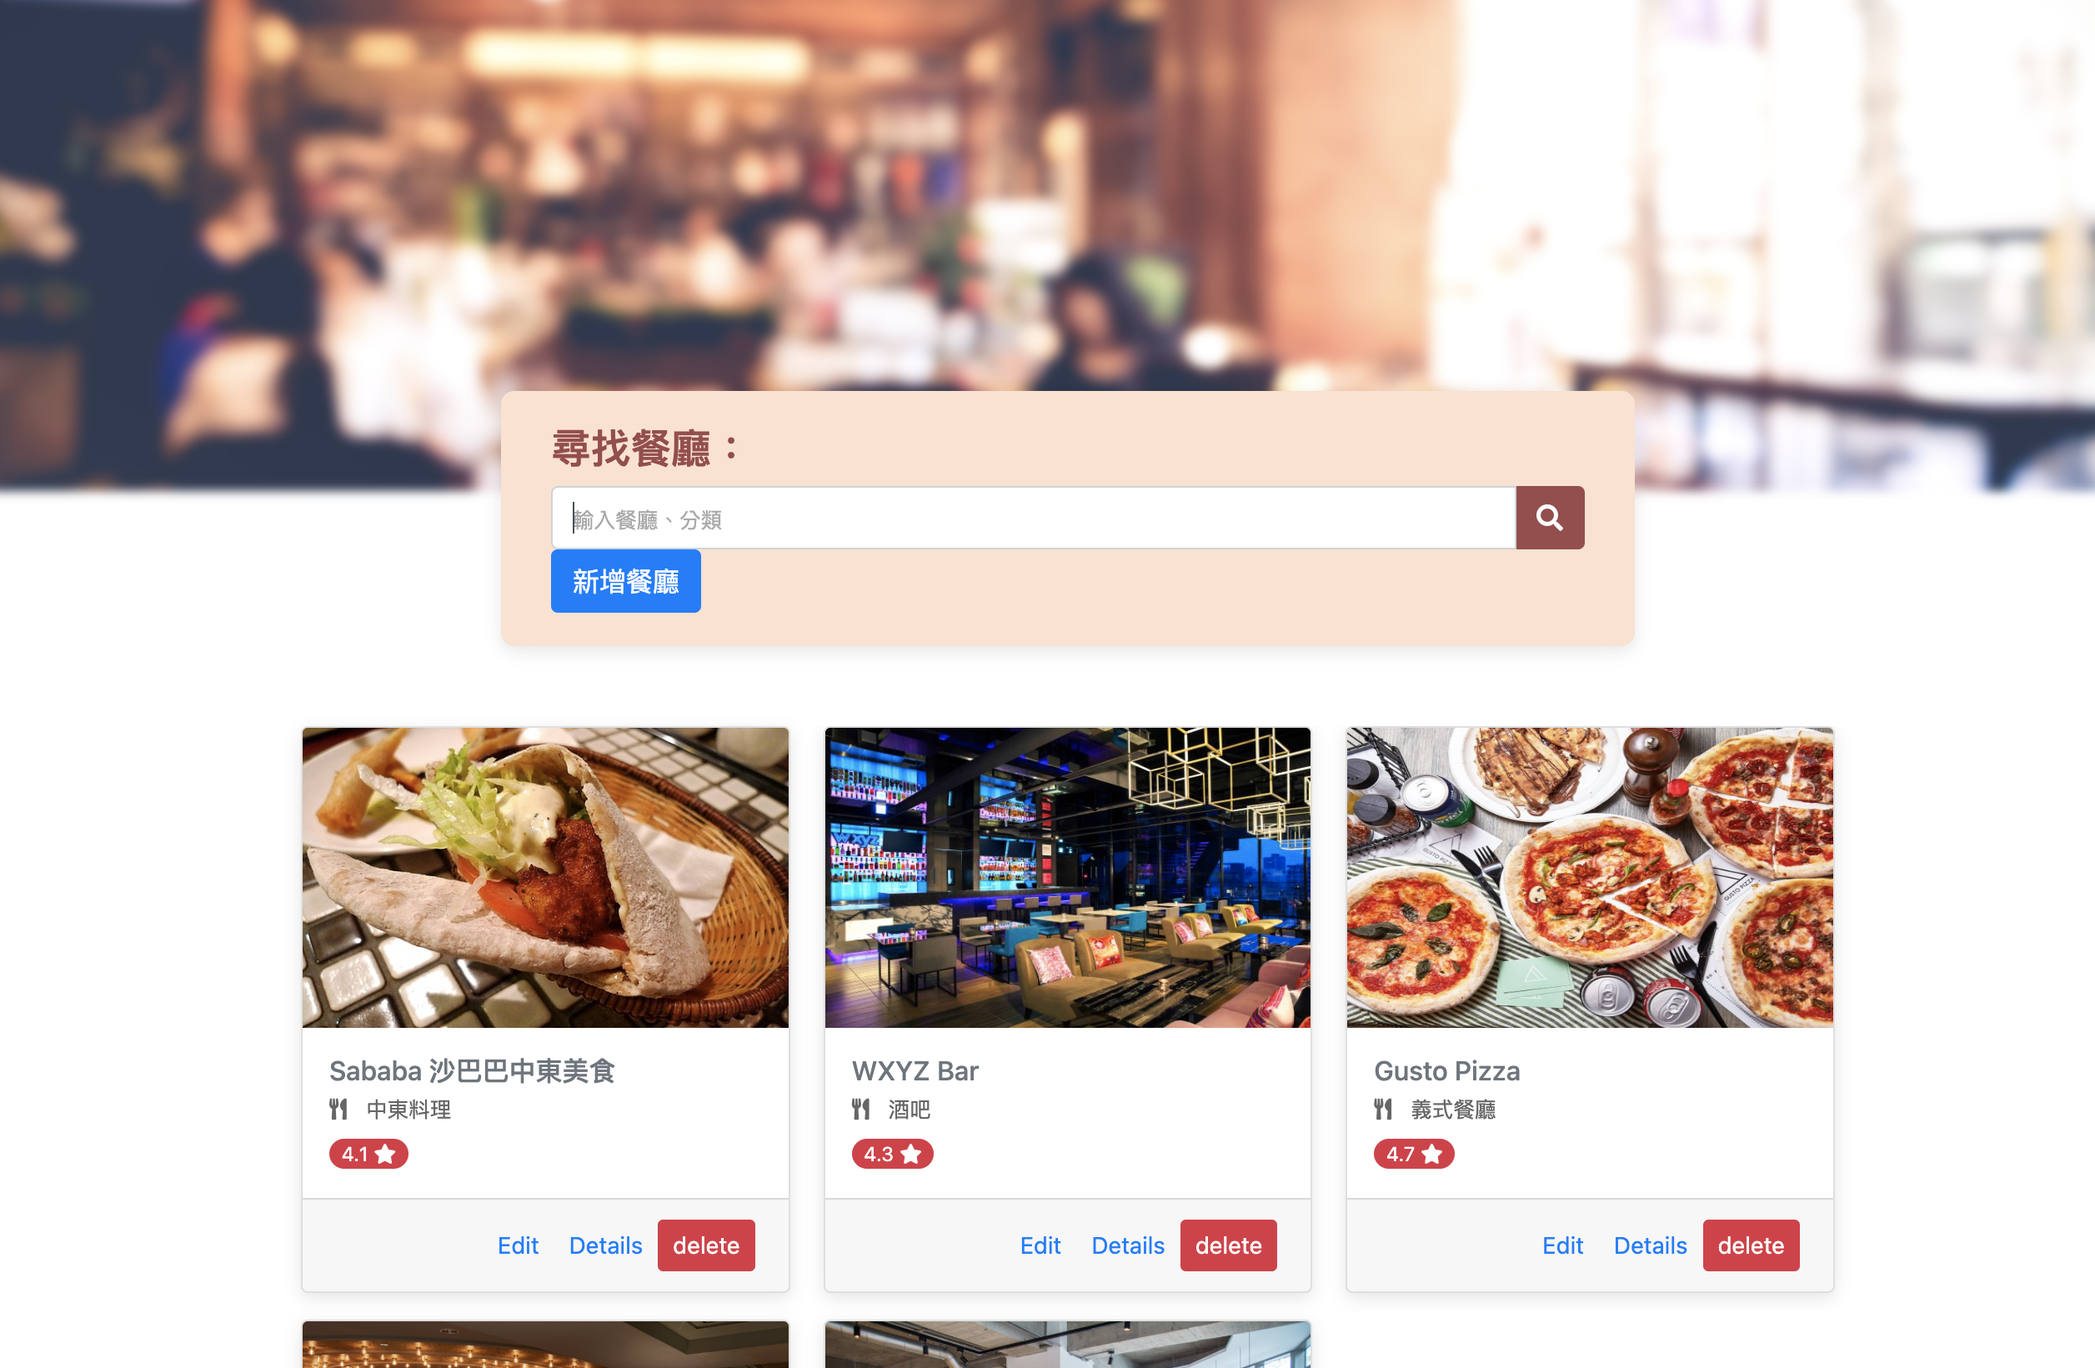
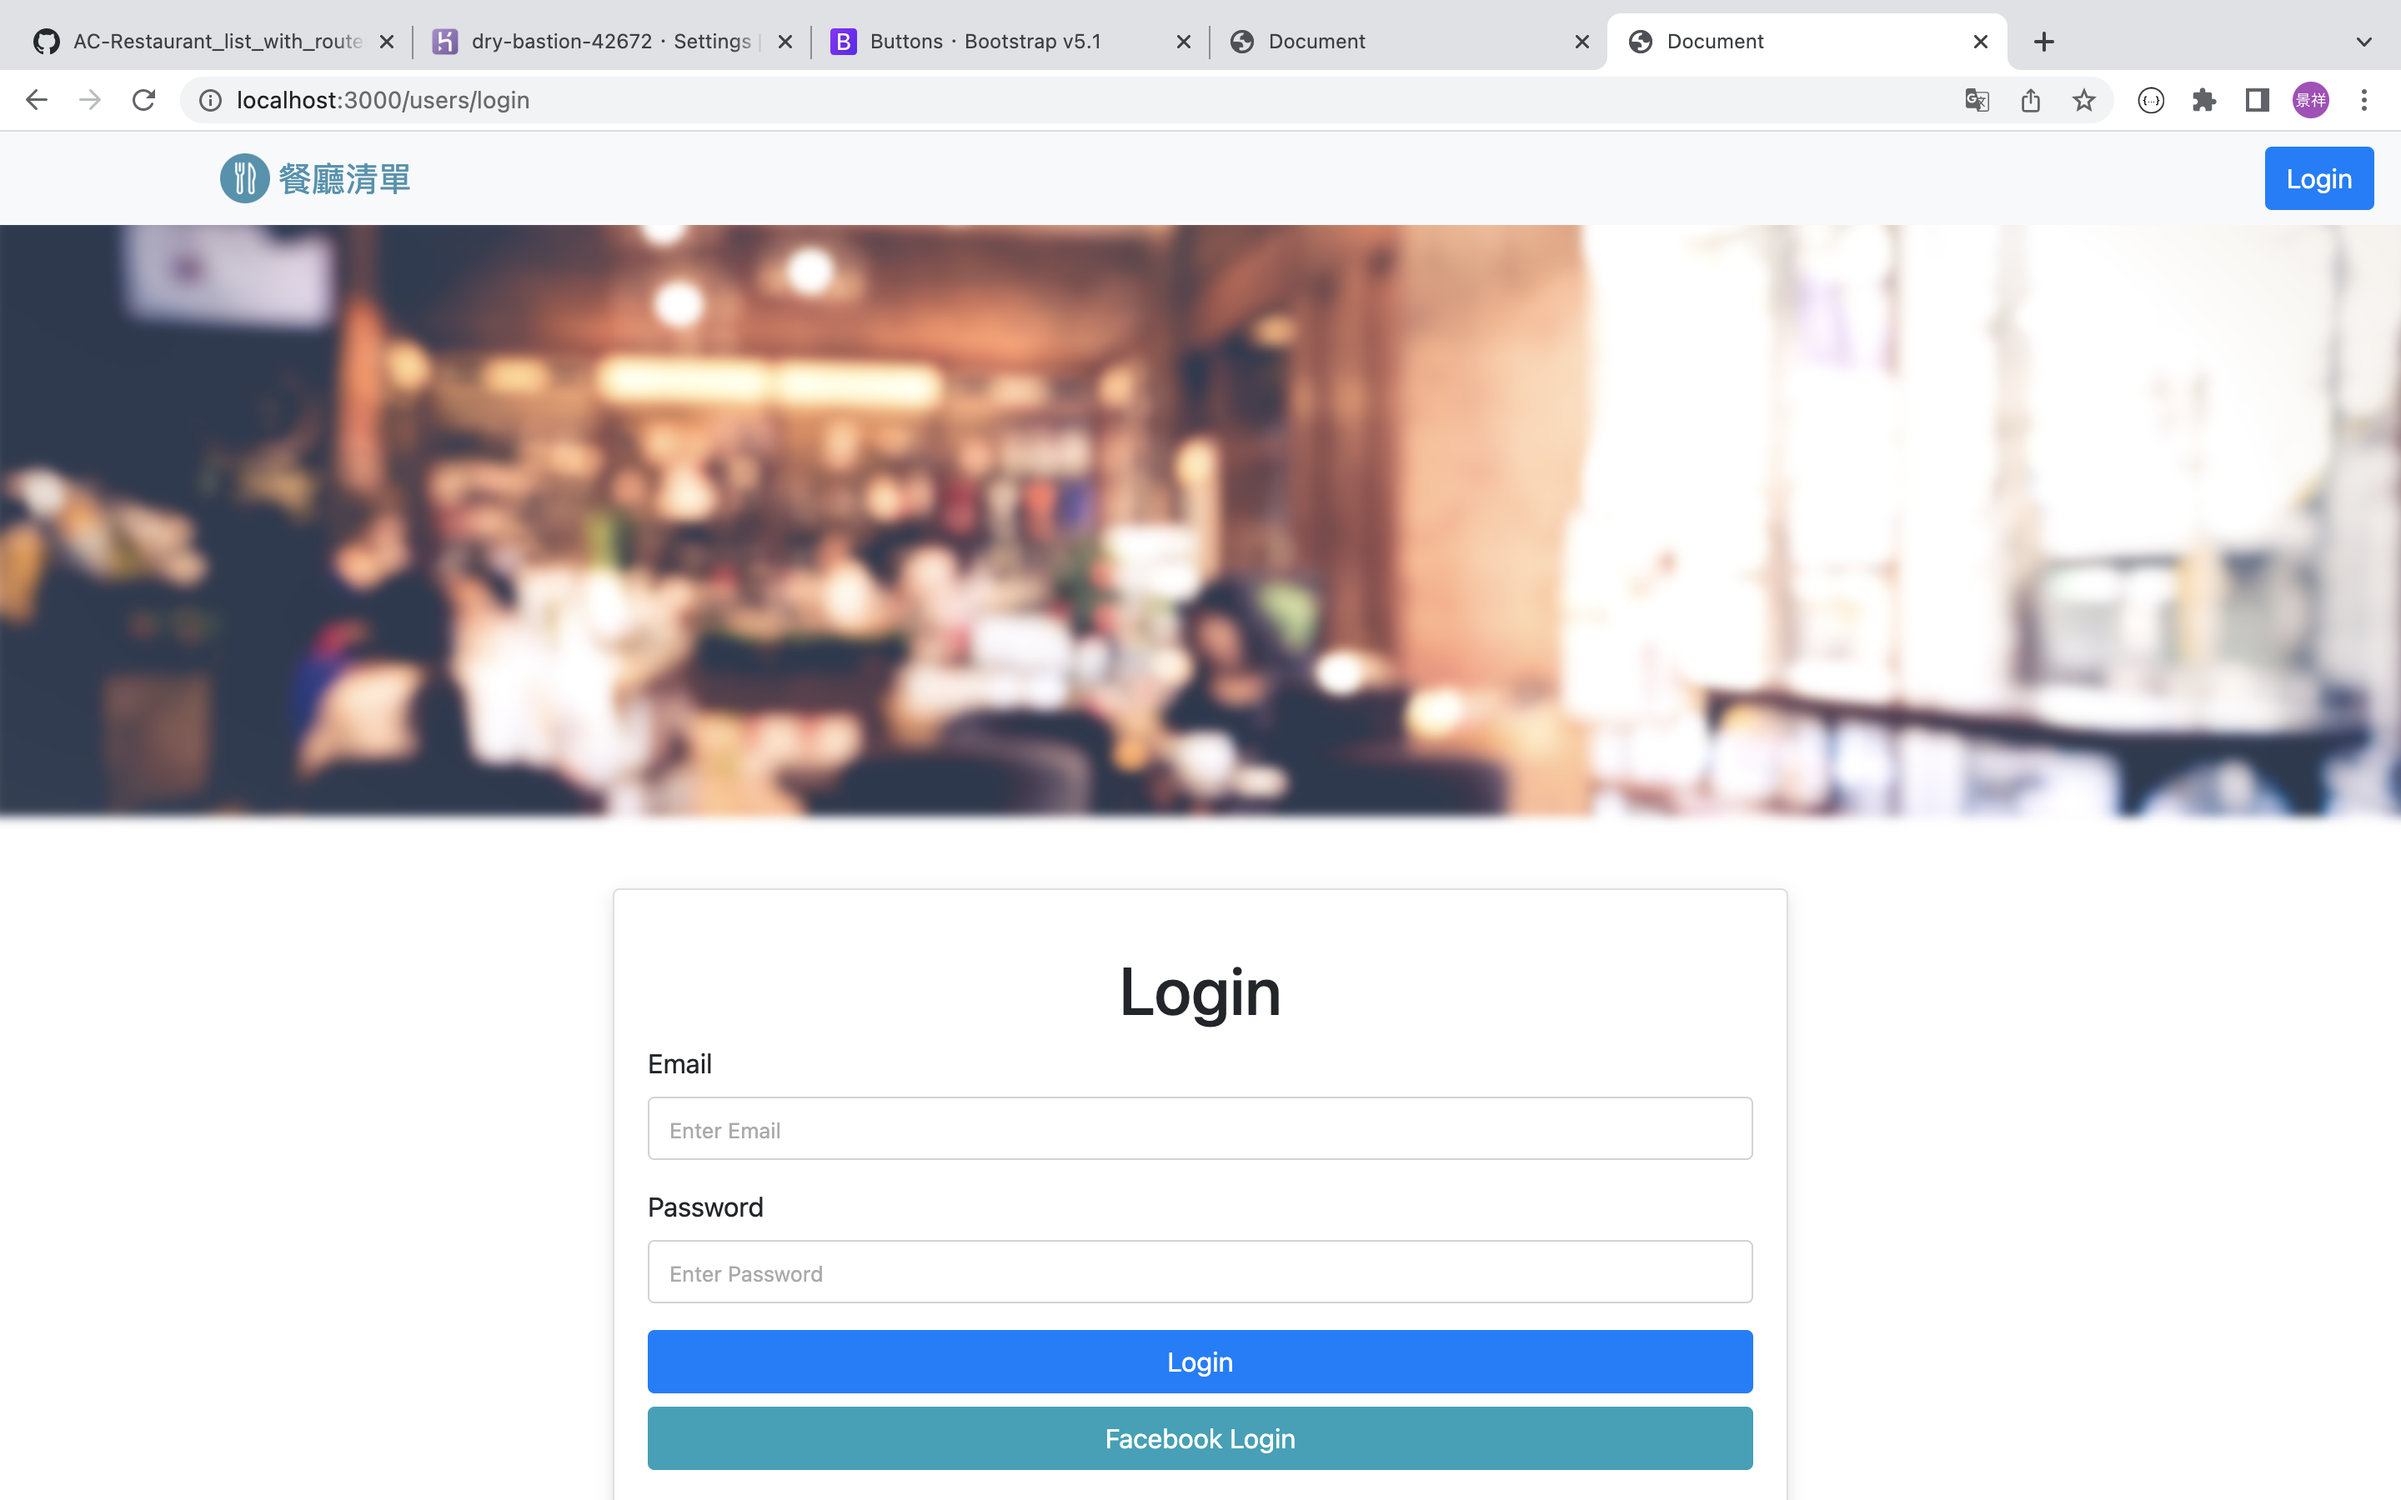
feat: add README

diff --git a/README.md b/README.md
@@ -2,11 +2,12 @@
 ![Restaurant List](./public/image/readmeImg.png)
 
 ## 介紹
-使用者可以在首頁看到所有餐廳與它們的簡單資料,再點進去看餐廳的詳細資訊
+使用者必須先註冊登入後才能使用餐廳清單，此清單可以打造專屬於你的餐廳明細！
 ### 功能
 
 基本功能：
 
+- 使用者可以使用Facebook帳號登入
 - 使用者可以新增一家餐廳
 - 使用者可以瀏覽一家餐廳的詳細資訊
 - 使用者可以瀏覽全部所有餐廳
@@ -24,9 +25,10 @@
    ```bash
    npm install
    ```
-4.MongoDB 路由設定(終端機)
+4.下載完成後新增一個.env，放入 MONGODB_URI，連結你的 mongoDB
+
    ```bash
-   export MONGODB_URI="<根據自己的MONGODB_URI及帳號密碼做設定>"
+   MONGODB_URI="<根據自己的MONGODB_URI及帳號密碼做設定>"
    ```
 
 5.使用以下方法使種子資料初始化
@@ -59,8 +61,19 @@
 - Node.js 14.16.0
 - Express 4.16.4
 - Express-Handlebars 3.0.0
+
 - Bootstrap 4.3.1
 - Font-awesome 5.8.1
 
 - MongoDB
 - mongoose 6.3.3
+- bcryptjs 2.4.3
+- body-parser 1.20.0
+- connect-flash 0.1.1
+- dotenv 8.2.0    
+- express-session 1.17.1
+- method-override 3.0.0
+
+- passport 0.4.1
+- passport-facebook 3.0.0
+- passport-local 1.0.0
